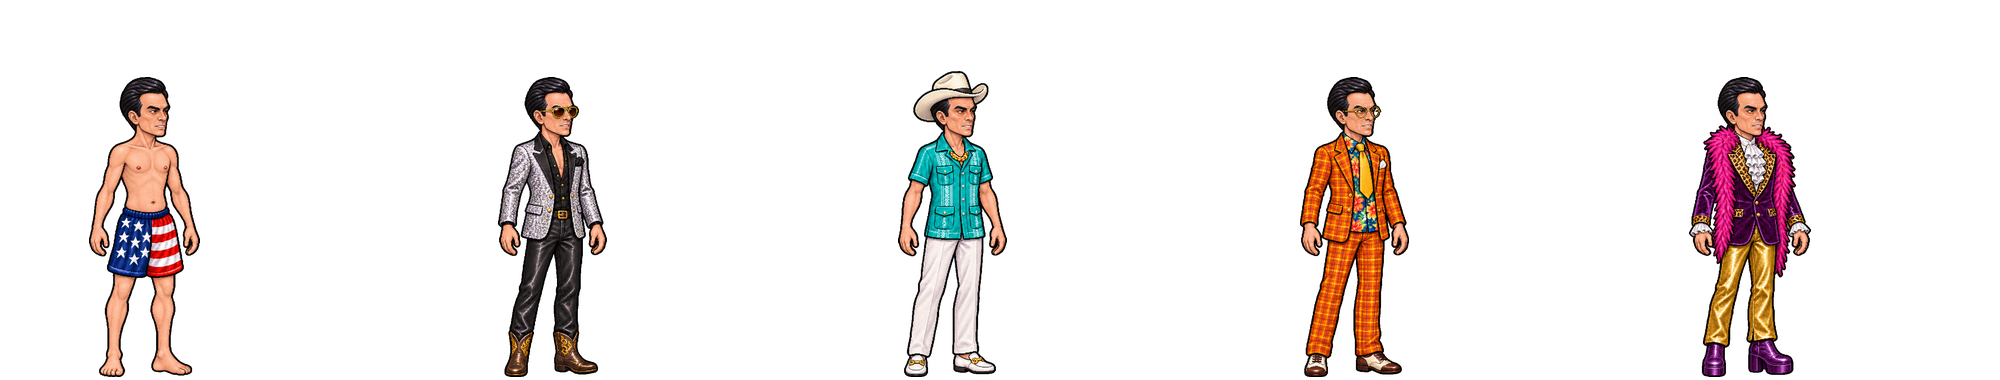
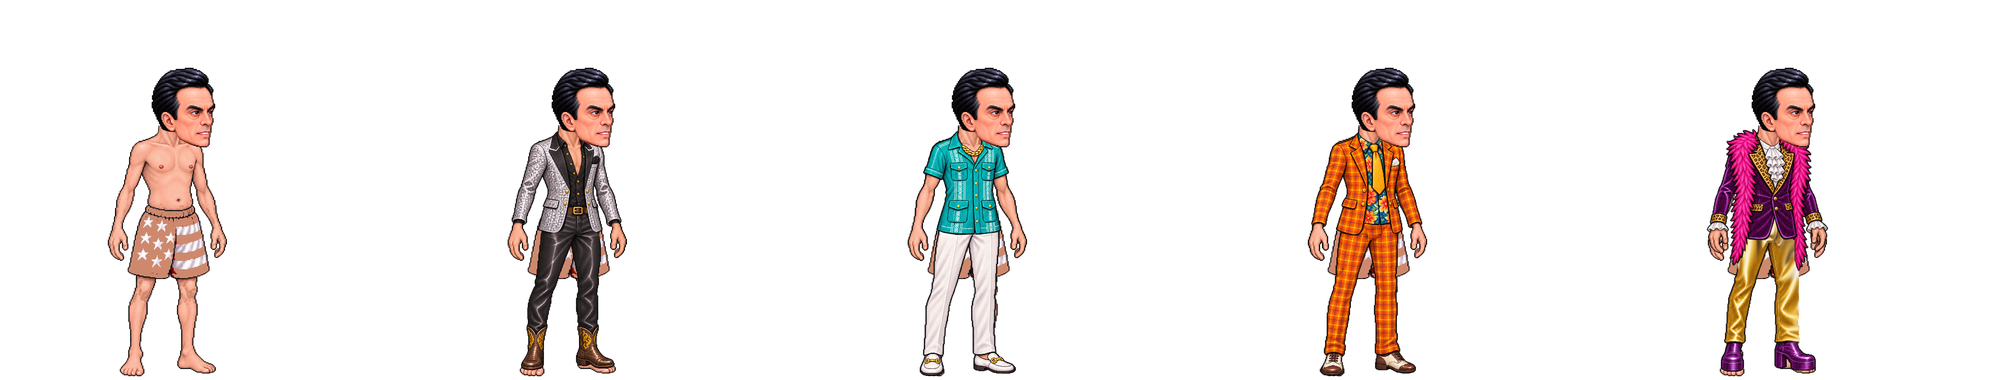
Rehace el sprite de guardia sobre un cuerpo único para eliminar el bug de hombros
Las prendas de cada personaje se fotografiaban por separado, con alineaciones de
cuerpo ligeramente distintas entre sí. Al robar ropa del otro personaje, un solo
valor de corte (torso/legs) no podía calzar con ambos cuerpos, dejando hombros o
cuello expuestos sobre todo con prendas robadas.

Nueva arquitectura: todos los vestuarios de guardia (4 looks por personaje) se
recompusieron sobre UN cuerpo compartido (PSD por capas provisto por el usuario),
con la cabeza de cada personaje superpuesta por separado y escalada/posicionada
con medición precisa de landmarks faciales contra las referencias ya armadas por
el usuario. Como el cuerpo es idéntico para todos los looks de ambos personajes,
el mismo corte torso/legs funciona para cualquier combinación, incluida ropa
robada entre personajes.

También se corrigió un defecto cosmético del cuerpo base (el calzón a rayas
asomando en la cadera entre saco y pantalón) recoloreando por máscara de color
los píxeles de esa prenda antes de componer cualquier vestuario.

Verificado con Playwright contra el pipeline real del juego, incluyendo el
escenario exacto del bug original (robo de ropa cruzado entre personajes).

Claude-Session: https://claude.ai/code/session_012zVcprR4KorysHkABMXdfX

diff --git a/farmeando/public/game.js b/farmeando/public/game.js
@@ -699,13 +699,13 @@ function loop(now) { const dt = Math.min(0.05, (now - last) / 1000 || 0); last =
 
 (async function boot() {
   fit(); requestAnimationFrame(loop);
-  try { META = await (await fetch('assets/meta.json?v=11')).json(); } catch (e) { }
+  try { META = await (await fetch('assets/meta.json?v=12')).json(); } catch (e) { }
   await Promise.all([
-    ...['kunte', 'espa'].flatMap(c => ['guard', 'attack', 'block', 'hit', 'win1', 'win2'].map(p => loadImg(c + '_' + p, 'assets/' + c + '_' + p + '.png?v=11'))),
+    ...['kunte', 'espa'].flatMap(c => ['guard', 'attack', 'block', 'hit', 'win1', 'win2'].map(p => loadImg(c + '_' + p, 'assets/' + c + '_' + p + '.png?v=12'))),
     fetch('assets/fx/fx.json?v=7').then(r => r.json()).then(j => { FXM = j; return Promise.all(Object.keys(j).map(k => loadImg('fx_' + k, 'assets/fx/' + k + '.png?v=7'))); }).catch(() => { }),
     loadImg('kunte_ko', 'assets/kunte_ko.png'), loadImg('espa_ko', 'assets/espa_ko.png'),
     loadImg('kunte_win', 'assets/kunte_win.png'), loadImg('espa_win', 'assets/espa_win.png'),
-    loadImg('bg_lima', 'assets/bg_lima.jpg?v=11'),
+    loadImg('bg_lima', 'assets/bg_lima.jpg?v=12'),
     ...STAGES.map(s => loadImg('bg_' + s.key, 'assets/bg_' + s.key + '.jpg')),
     document.fonts ? document.fonts.load('20px "Press Start 2P"') : null,
   ]);

diff --git a/farmeando/public/index.html b/farmeando/public/index.html
@@ -110,6 +110,6 @@
     </div>
   </div>
 </div>
-<script src="game.js?v=11"></script>
+<script src="game.js?v=12"></script>
 </body>
 </html>
